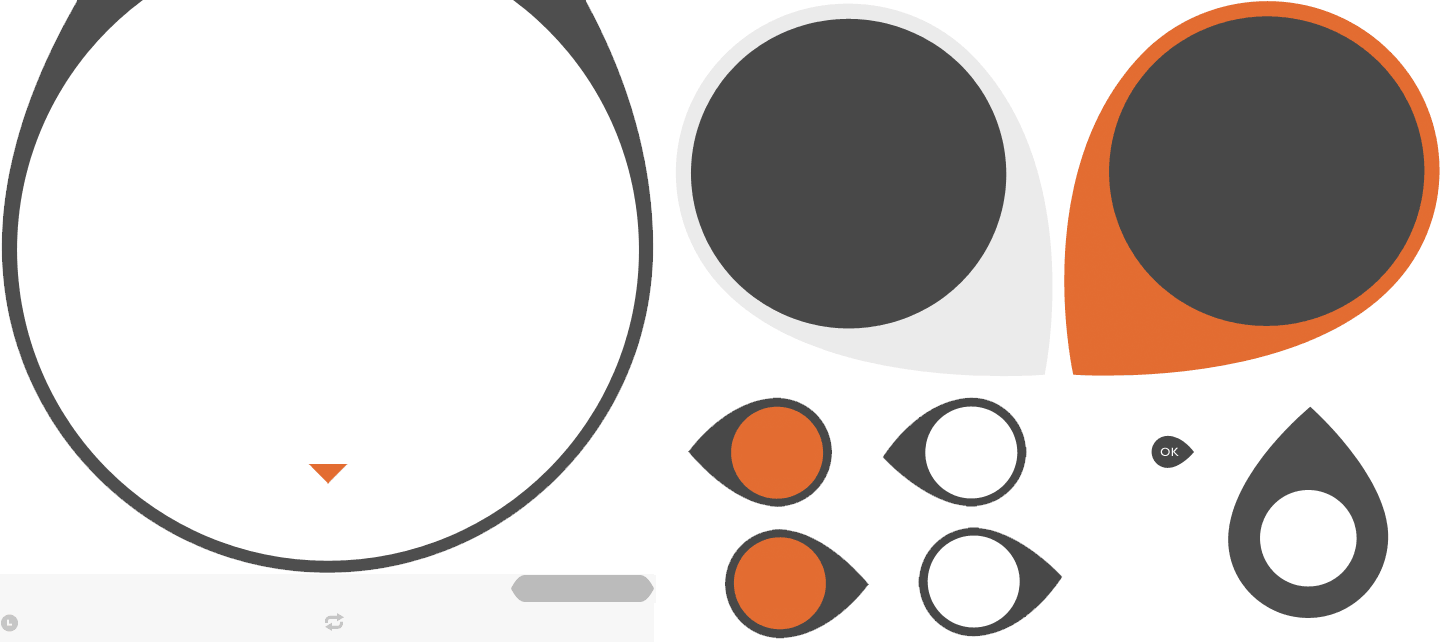
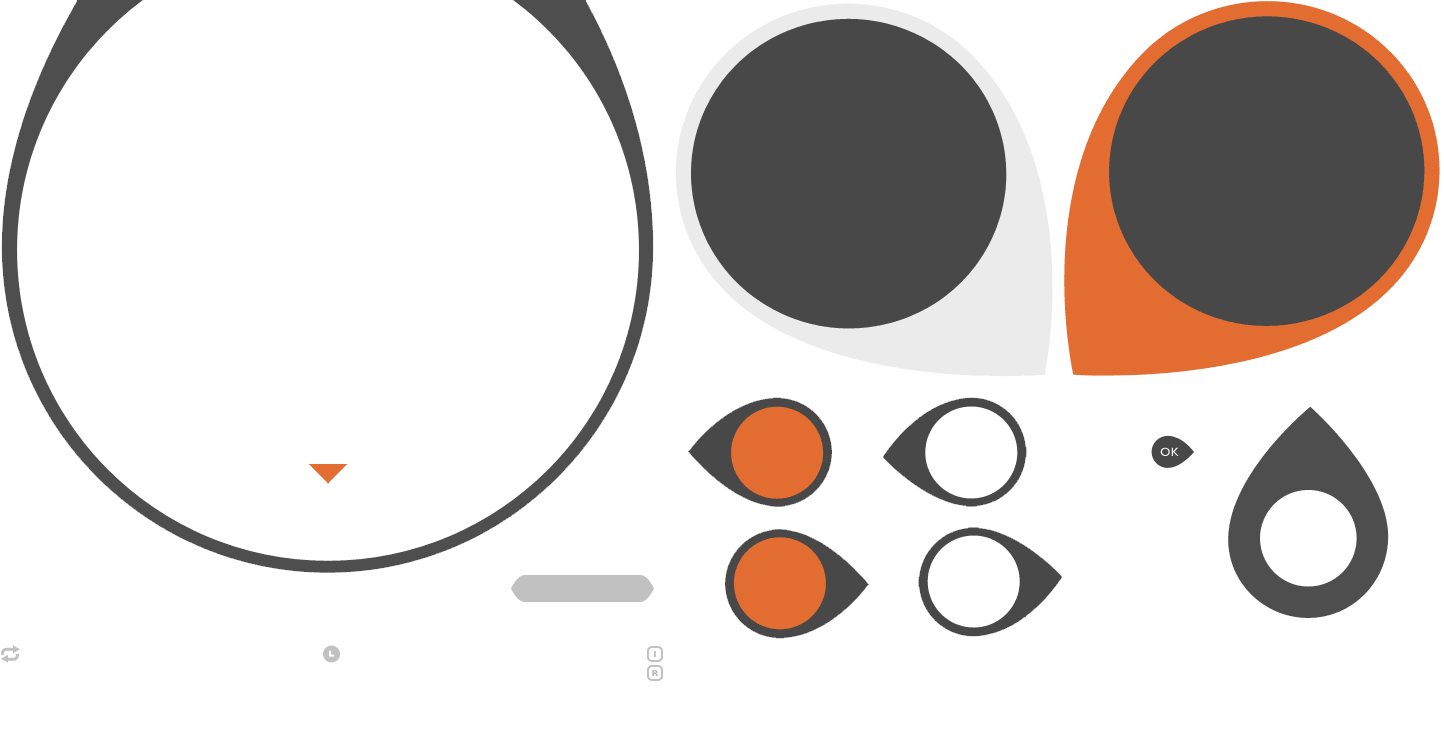
Reworked assets, positioning fixes

diff --git a/imprint.css b/imprint.css
@@ -257,11 +257,11 @@ ul.bubbles {
     margin-top: 25px;
     background: url("images/ouijas.png") no-repeat; }
     #spread li.reblog {
-      background-position: -145px -615px; }
+      background-position: 175px -643px; }
     #spread li.longreads {
-      background-position: 100px -615px; }
+      background-position: -146px -643px; }
     #spread li.readlater {
-      background-position: 100px -615px; }
+      background-position: -469px -643px; }
   #spread strong {
     text-transform: uppercase; }
   #spread a {
@@ -291,7 +291,7 @@ ul.bubbles {
   padding-top: 42px;
   line-height: 180px;
   text-align: center;
-  background: url("images/ouijas.png") -1229px -407px;
+  background: url("images/ouijas.png") -1228px -407px;
   color: #c8602b;
   text-transform: uppercase;
   letter-spacing: 1px;

diff --git a/index.html b/index.html
@@ -59,7 +59,7 @@
           <h2 class="l1">Blurbs</h2>
           <p>Are people talking you up on Twitter? Plug their kind words into this theme and bask a little in the glow.</p>
         </li>
-        <li id="o-work">
+        <li class="lefty" id="o-work">
           <div class="point"></div>
           <h2>Your Work</h2>
           <p>All of your work, organized the way you want it.</p>
